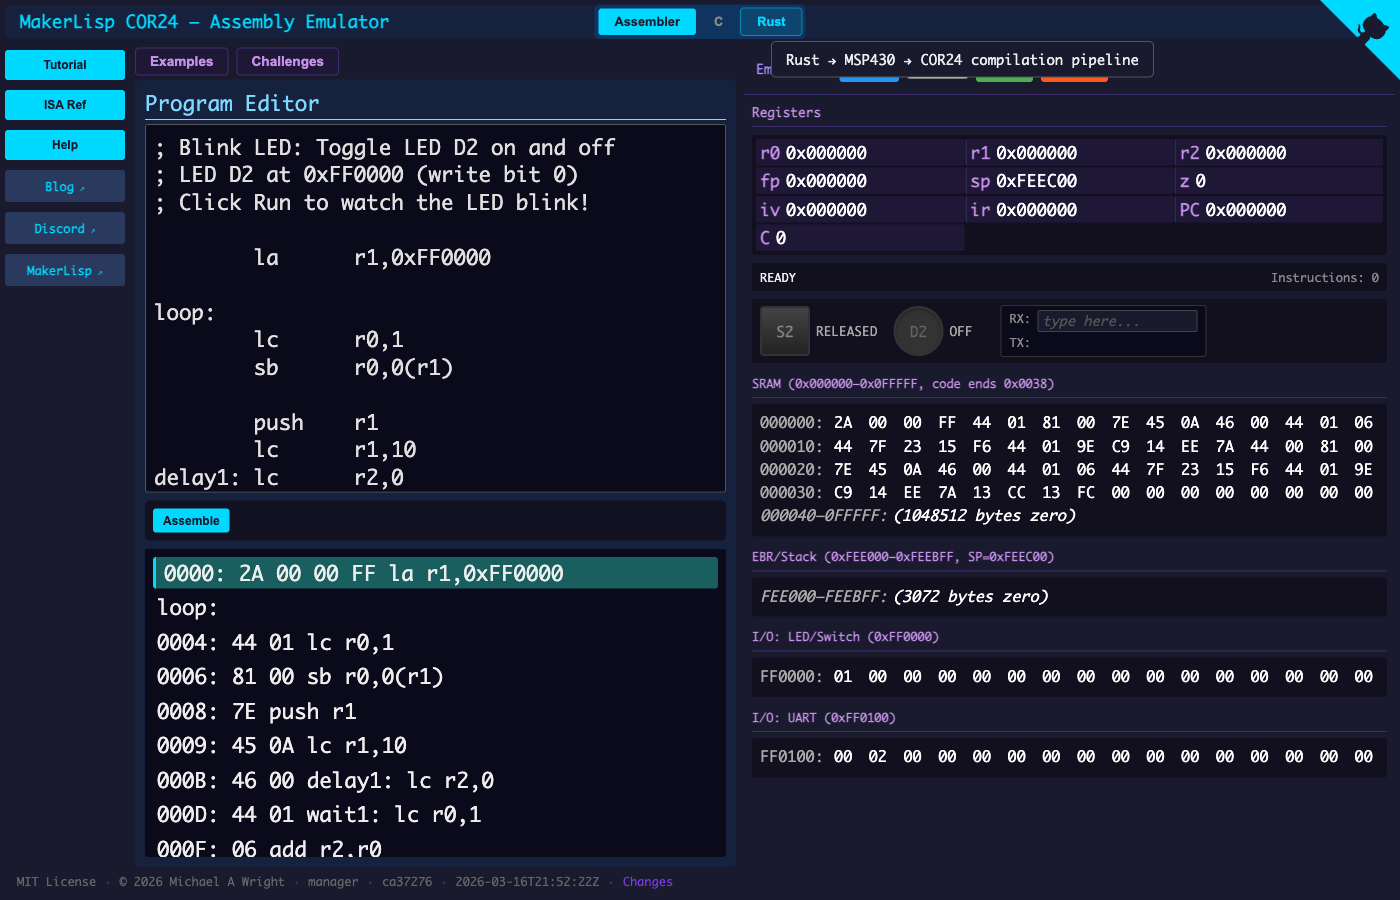
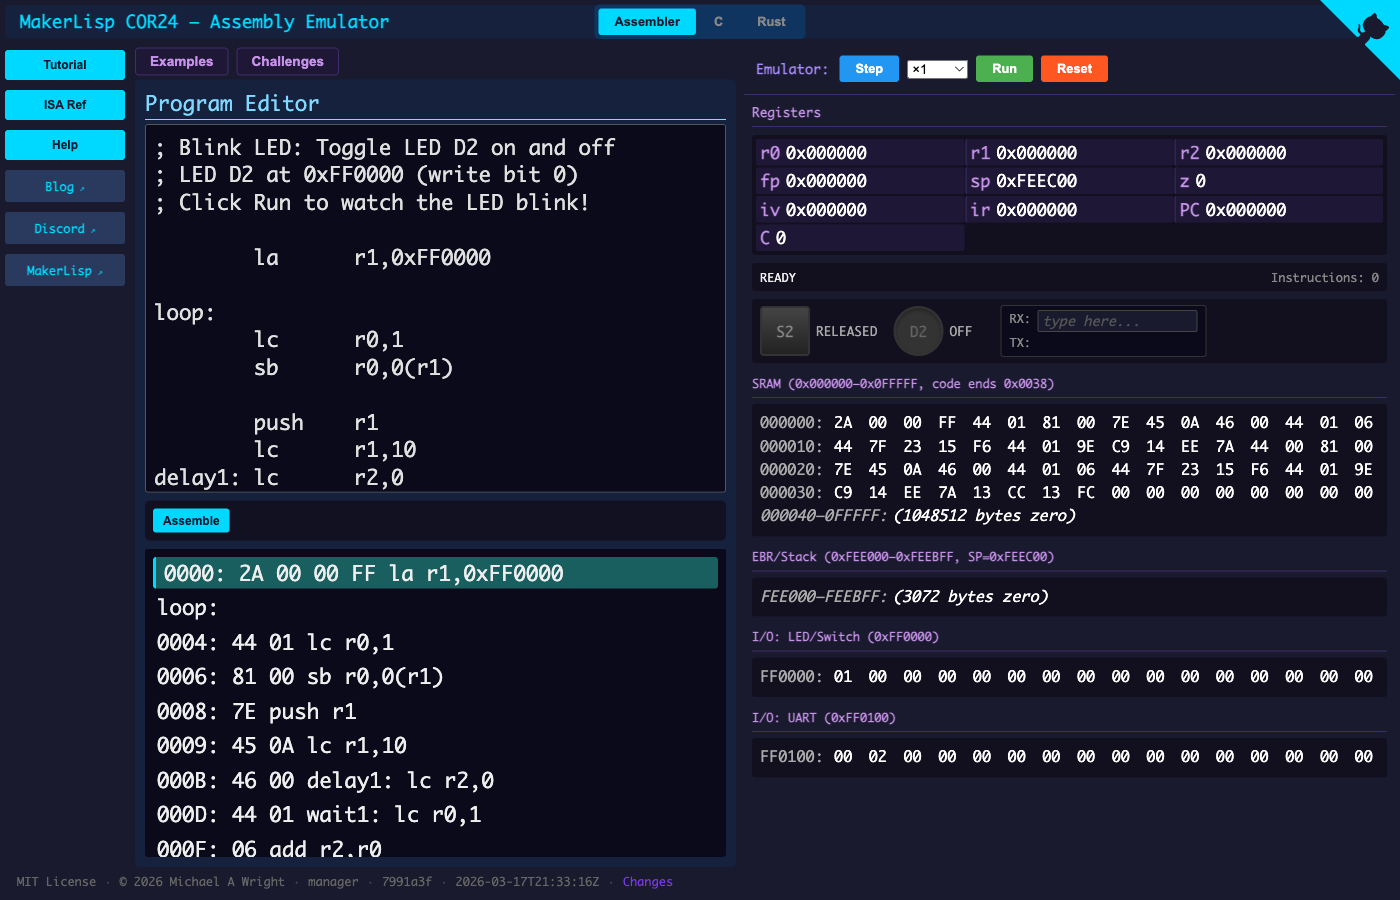
Update screenshots with yellow cell headers and new button layout
Screenshots now show gold/yellow cell headers, Examples/Challenges
buttons in context-specific locations, and full-height editor.

Changed region(s): [[0.5529, 0.0622, 0.8293, 0.0933], [0.5221, 0.0, 0.5836, 0.0311], [0.2764, 0.9644, 0.3071, 0.9956]]

diff --git a/README.md b/README.md
@@ -7,13 +7,13 @@ architecture. Written in Rust and compiled to WebAssembly.
 **[Live Demo](https://sw-embed.github.io/cor24-rs/)**
 
 ### Assembler Tab
-![COR24 Assembler Tab](images/assembler-tab.png?ts=1773702767000)
+![COR24 Assembler Tab](images/assembler-tab.png?ts=1773783471000)
 
 ### C Tab
-![COR24 C Pipeline Tab](images/c-tab.png?ts=1773702767000)
+![COR24 C Pipeline Tab](images/c-tab.png?ts=1773783471000)
 
 ### Rust Tab
-![COR24 Rust Pipeline Tab](images/rust-tab.png?ts=1773702767000)
+![COR24 Rust Pipeline Tab](images/rust-tab.png?ts=1773783471000)
 
 ## Features
 
